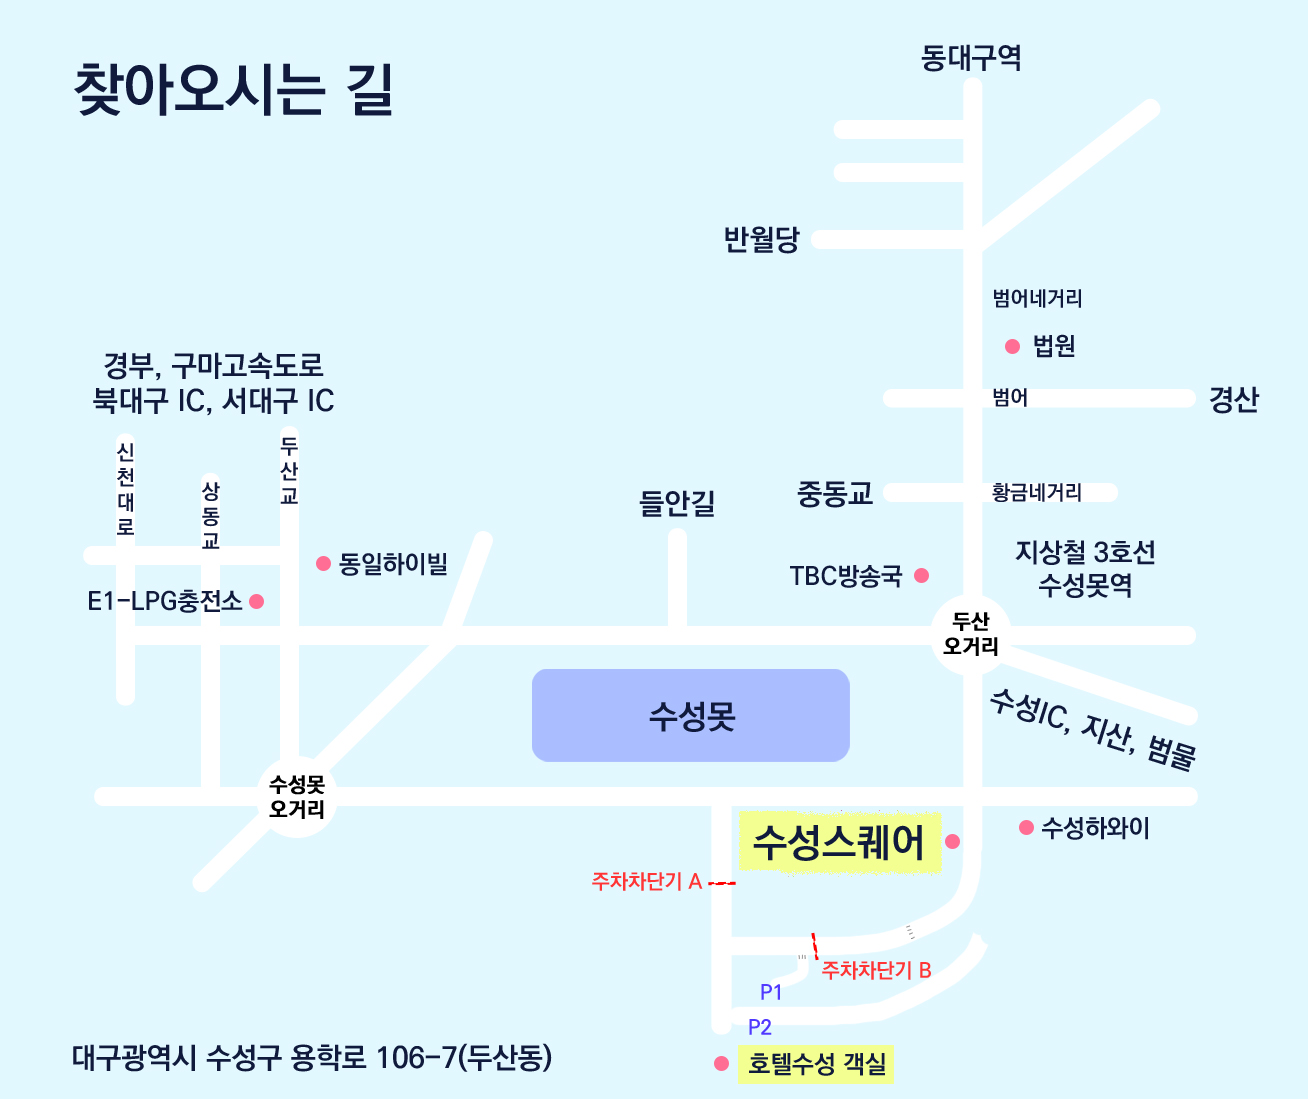
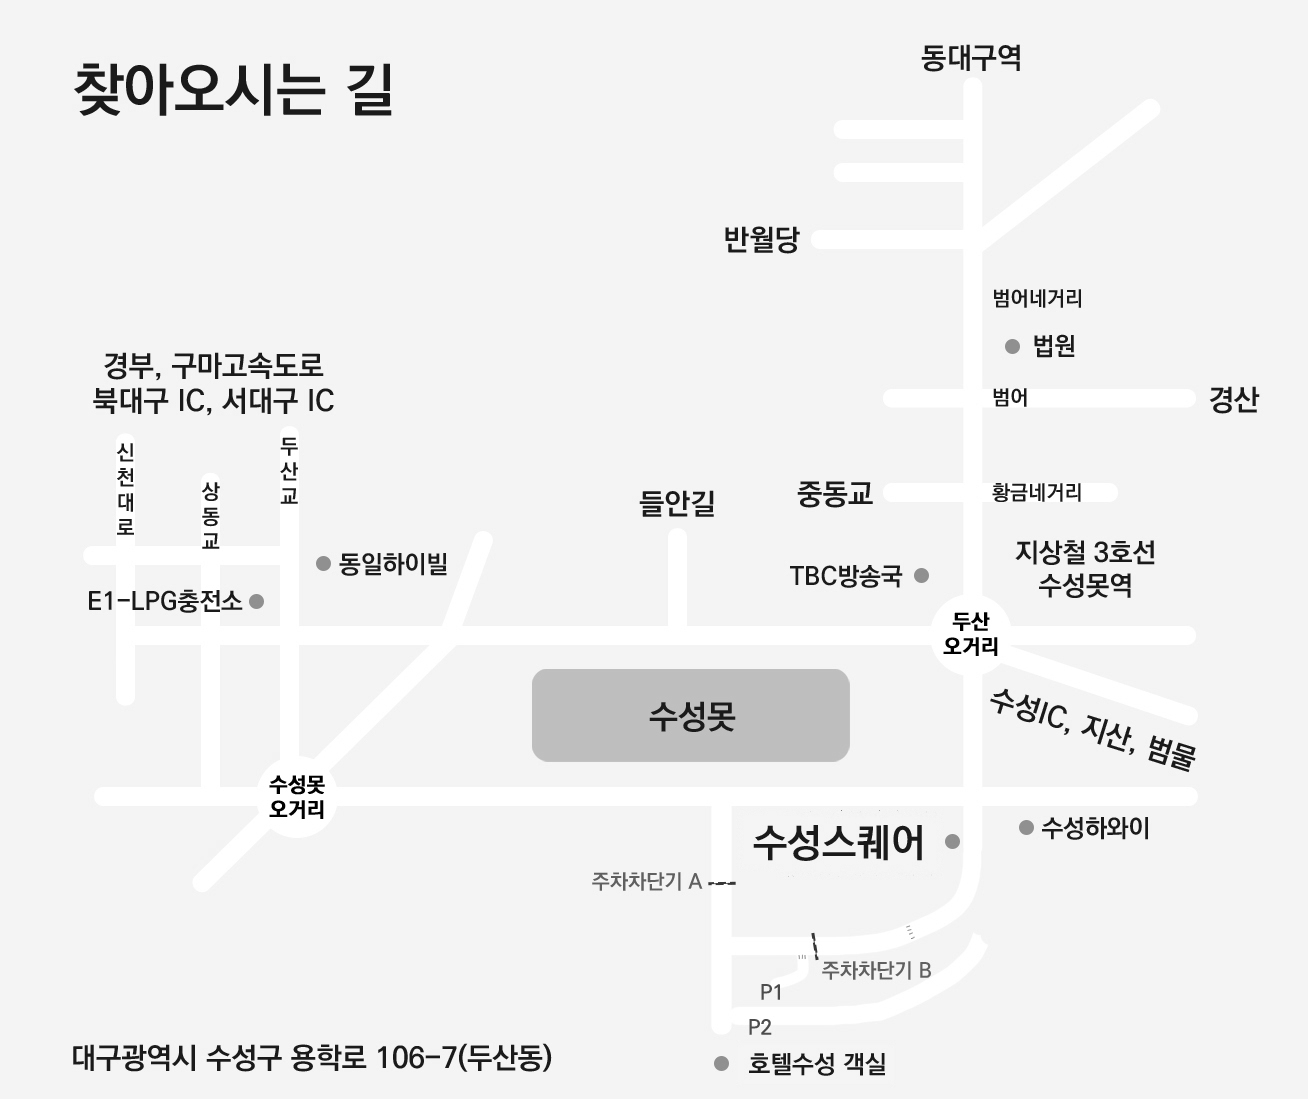
약도 흑백 & 사진 화살표 추가

diff --git a/index.html b/index.html
@@ -874,7 +874,9 @@
     <!-- 💡 새로 추가할 모달 팝업 구조 (body 닫히기 전에 넣으셔도 됩니다) -->
     <div id="galleryModal" class="modal-overlay">
         <span class="modal-close">&times;</span>
+        <button class="modal-nav prev-btn">&#10094;</button>
         <img class="modal-content" id="modalImage" alt="크게 보기">
+        <button class="modal-nav next-btn">&#10095;</button>
     </div>
 
     <!-- 더보기 / 접기 버튼 -->